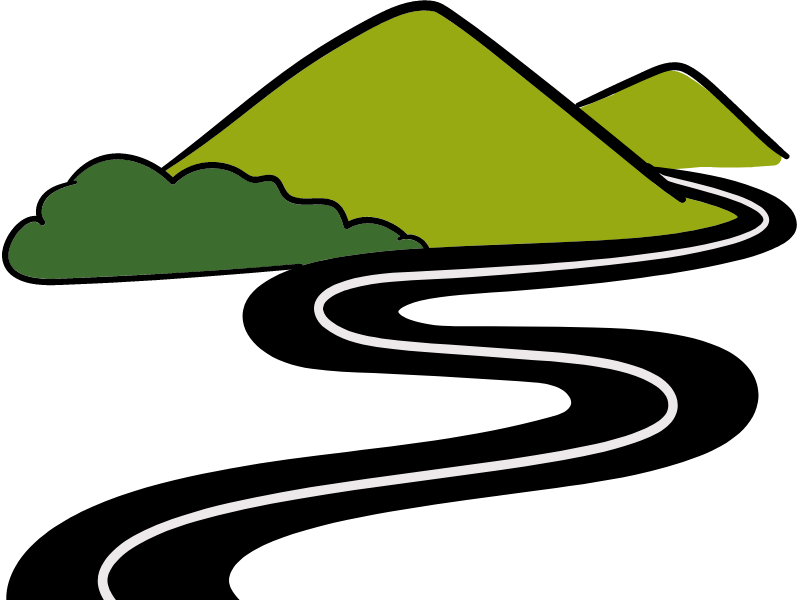
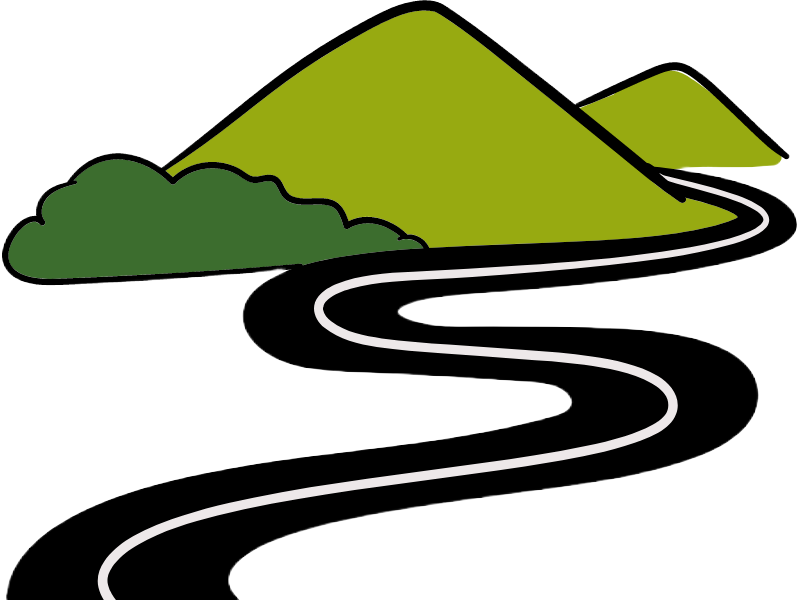
better removing bg

diff --git a/src/components/Hero.vue b/src/components/Hero.vue
@@ -40,7 +40,7 @@
        opacity-0 animate-slogan">
           <img
       class=""
-      src="/nature-road-nobg.png"
+      src="/nature-road-bg.png"
       alt=""
     />
        </div>
